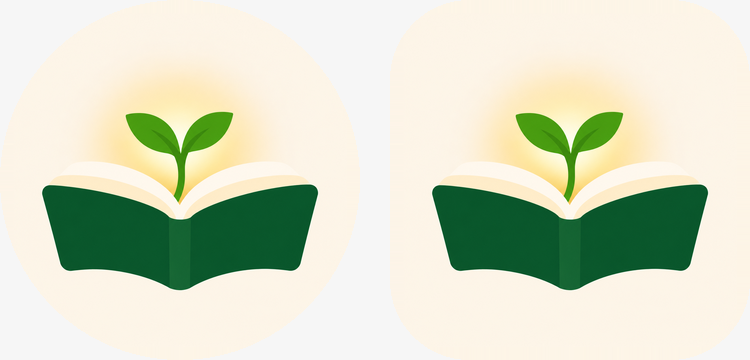
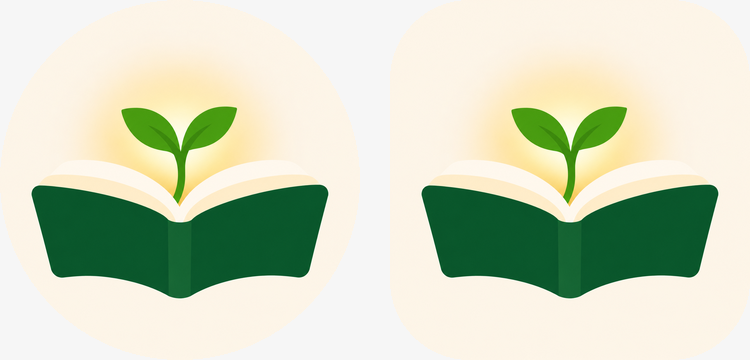
fix: scale artwork for adaptive launcher mask

diff --git a/android/prepare-icon.py b/android/prepare-icon.py
@@ -26,8 +26,8 @@ TARGET = os.path.join(HERE, "res", "drawable-nodpi", "launcher_artwork.png")
 PREVIEW = os.path.join(HERE, "artwork", "icon-preview.png")
 
 # 原图占 108dp 图层的比例。系统只显示中间 72dp（66.7%），剩下的是留白与动画区。
-# 0.62 lets the artwork fill about 76% of the visible viewport, with room around the book.
-SHARE = 0.62
+# 原图覆盖中央72dp可视区域；外围复制边缘像素，留给启动器动画使用。
+SHARE = 2 / 3
 
 
 def pad_to_adaptive(src):
